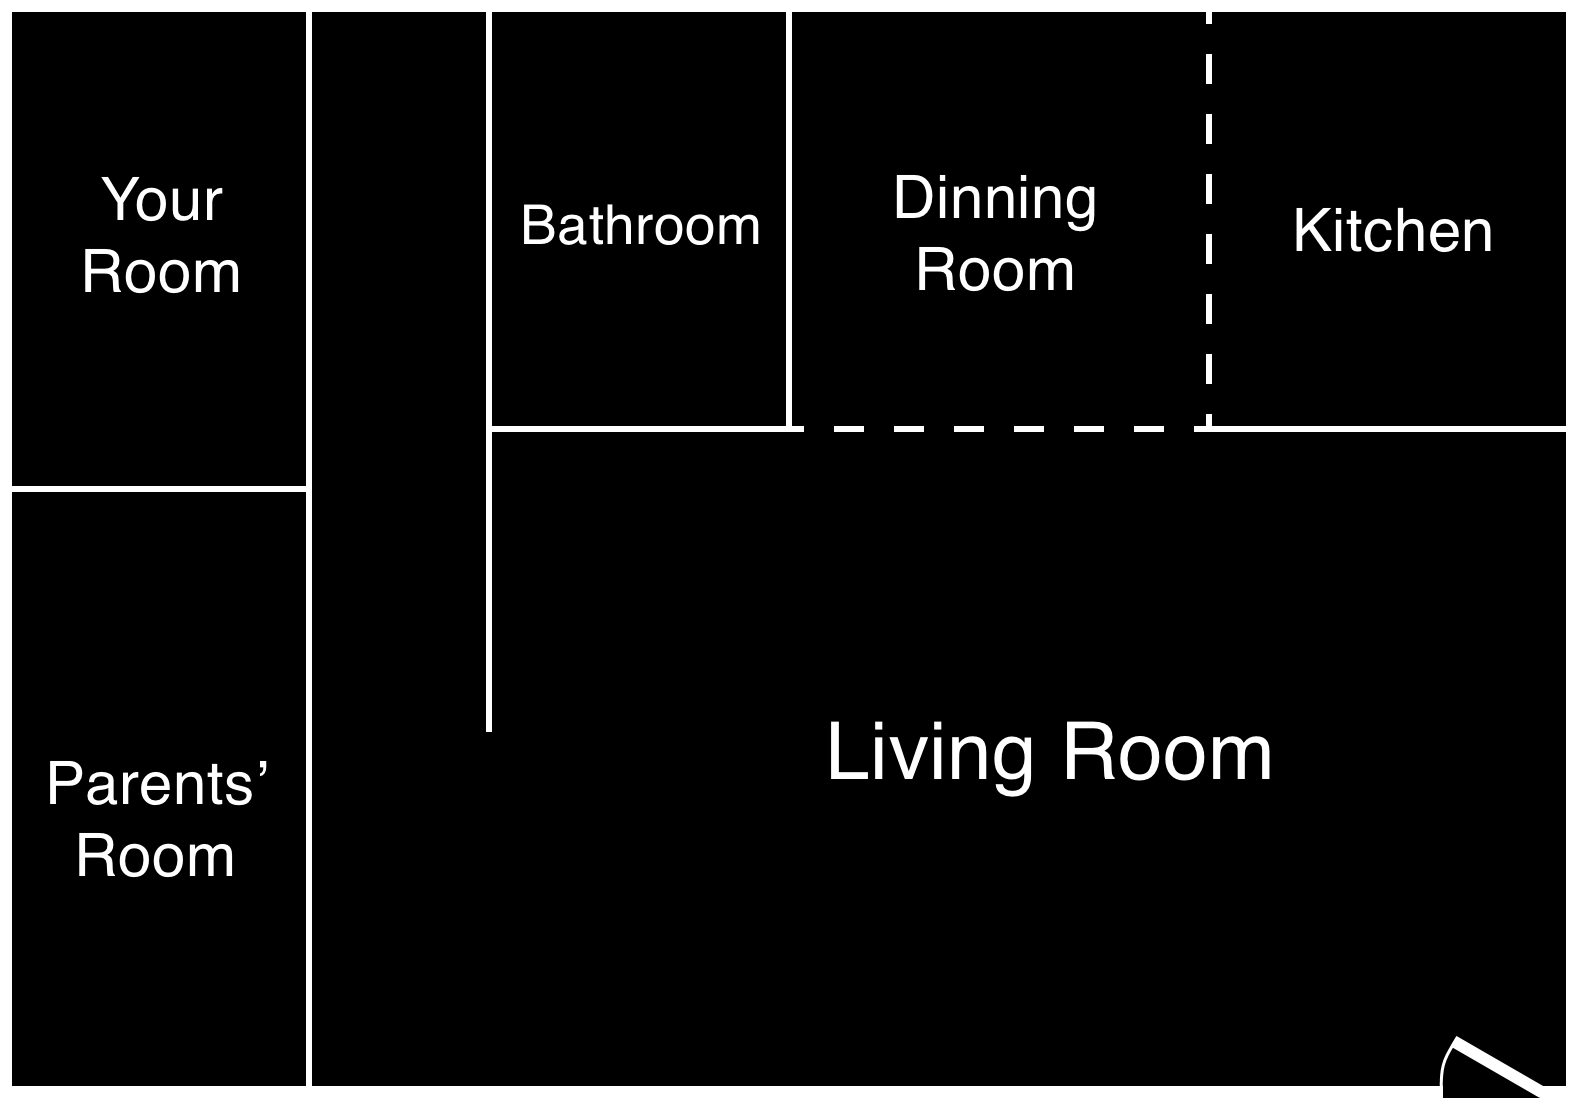
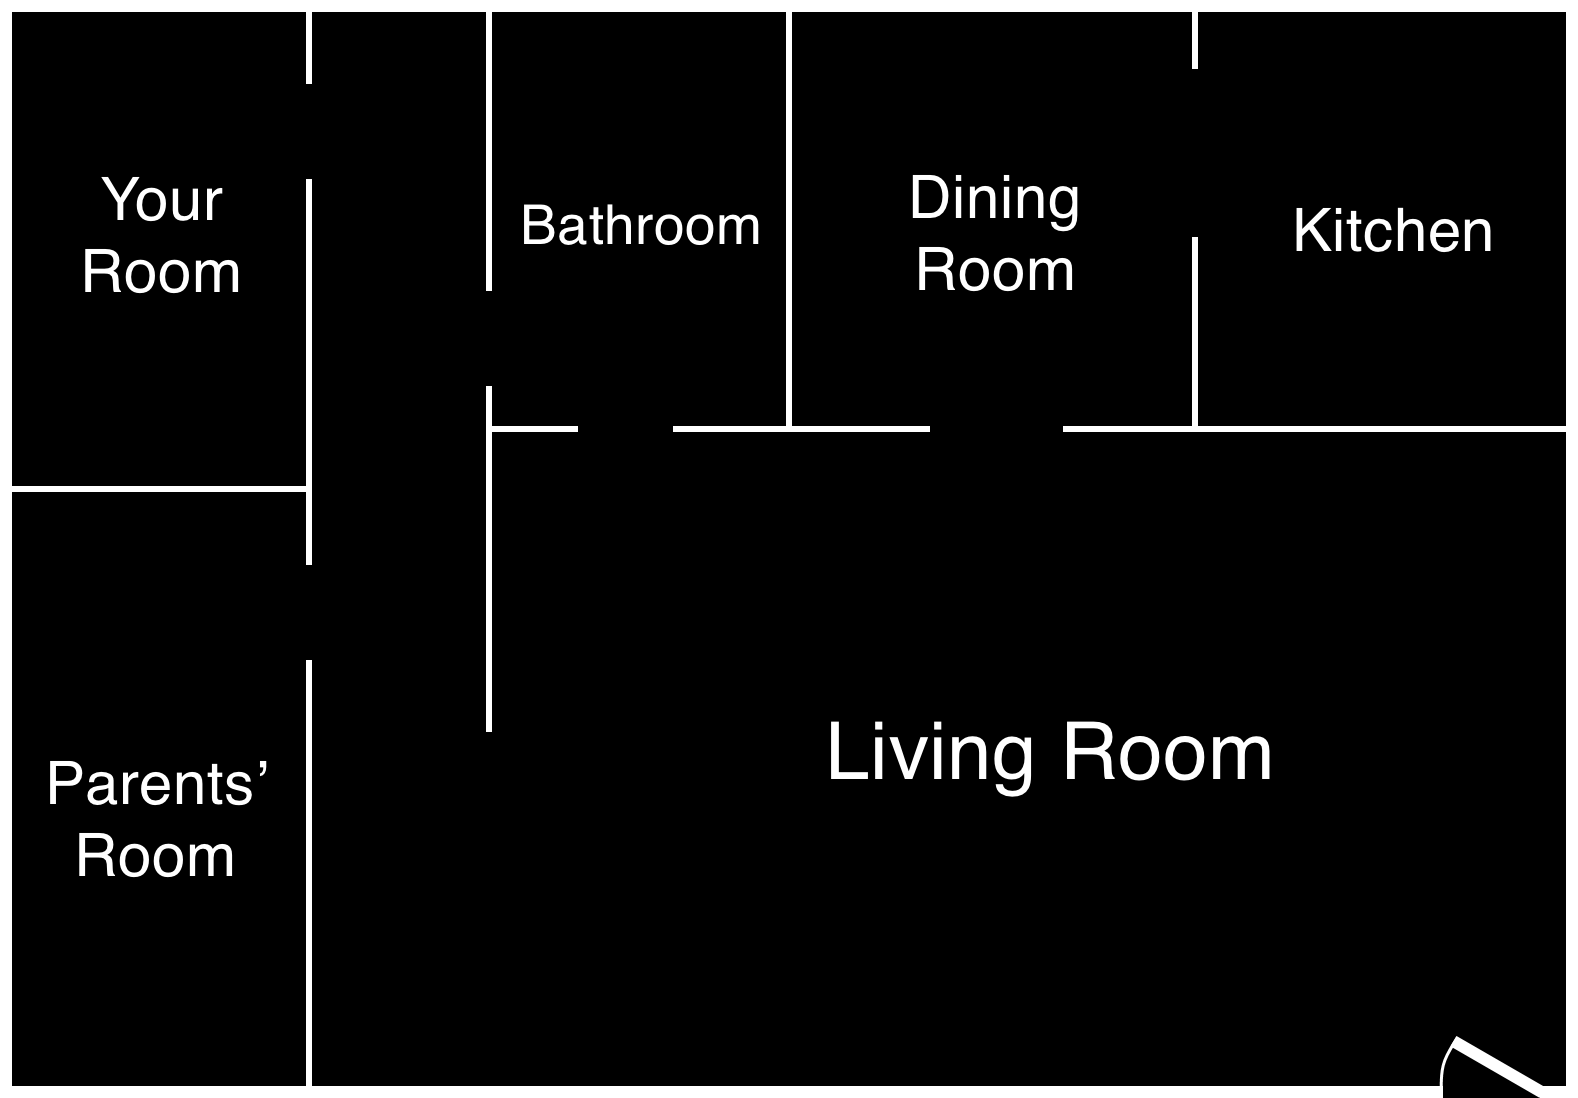
aesthetic changes
edited the layout of the title page
edited the map to be more clear and fix typo
fixed some minor errors in the main text of the game

diff --git a/Santa Search.html b/Santa Search.html
@@ -123,6 +123,24 @@ body.start {
   background-color: #111;
 }
 
+#title {
+  position: fixed;
+  left: 50%;
+  top: 50%;
+}
+
+#SANTA {
+  position: relative;
+  bottom: 20px;
+  color: red;
+}
+
+#SEARCH {
+  position: relative;
+  top: 20px;
+  color: green;
+}
+
 .content a.link-internal {
   color: red;
 }
@@ -235,7 +253,7 @@ I got up and I went and checked in on my parents, and they hadn’t woken up. So
 	&lt;&lt;/replace&gt;&gt;
 	&lt;&lt;replace &quot;#DisplayText&quot;&gt;&gt;
 		&lt;br&gt;
-		The day before me and my parents made cookies for Santa! It was really fun and we made a lot.
+		Early in the week, me and my parents made cookies for Santa! It was really fun and we made a lot of them.
 		&lt;br&gt;
 	&lt;&lt;/replace&gt;&gt;
 &lt;&lt;/link&gt;&gt;&lt;/span&gt;
@@ -251,7 +269,7 @@ It wasn’t that surprising though, we left it in a pretty precarious place. At 
 
 
 I kept looking over the presents and the tree and everything, but I couldn’t find anything, but by [[then I was determined to find Santa.-&gt;Hallway]]&lt;/p&gt;</tw-passagedata><tw-passagedata pid="9" name="Start" tags="" position="28,13" size="100,100">&lt;&lt;addclass &quot;body&quot; &quot;start&quot;&gt;&gt;
-&lt;h1&gt;SANTA SEARCH&lt;/h1&gt;
+&lt;div id=&quot;title&quot;&gt;&lt;h1&gt;&lt;span id=&quot;SANTA&quot;&gt;SANTA &lt;/span&gt;&lt;span id=&quot;SEARCH&quot;&gt;SEARCH&lt;/span&gt;&lt;/h1&gt;&lt;/div&gt;
 
 [[Start-&gt;Intro#1]] 
 /*[[End]]*/
